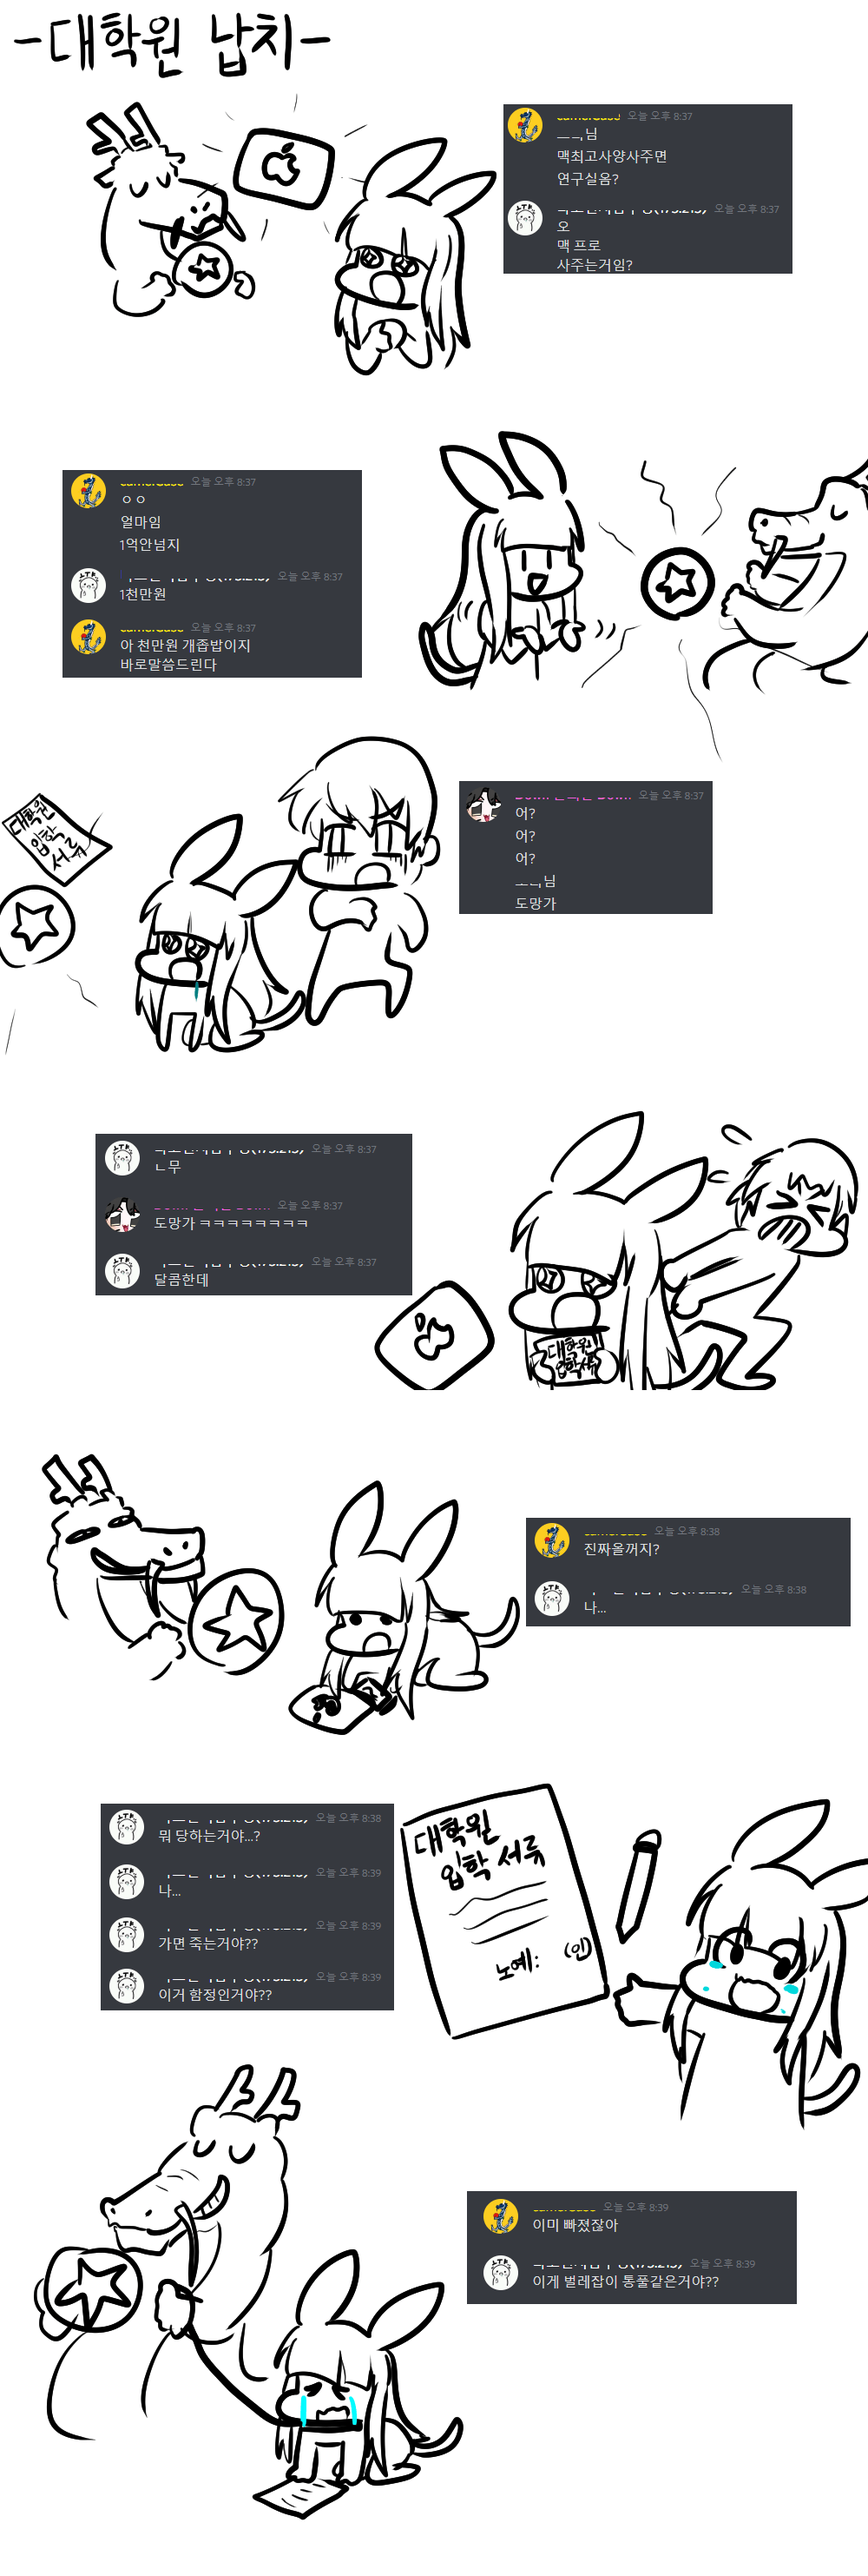
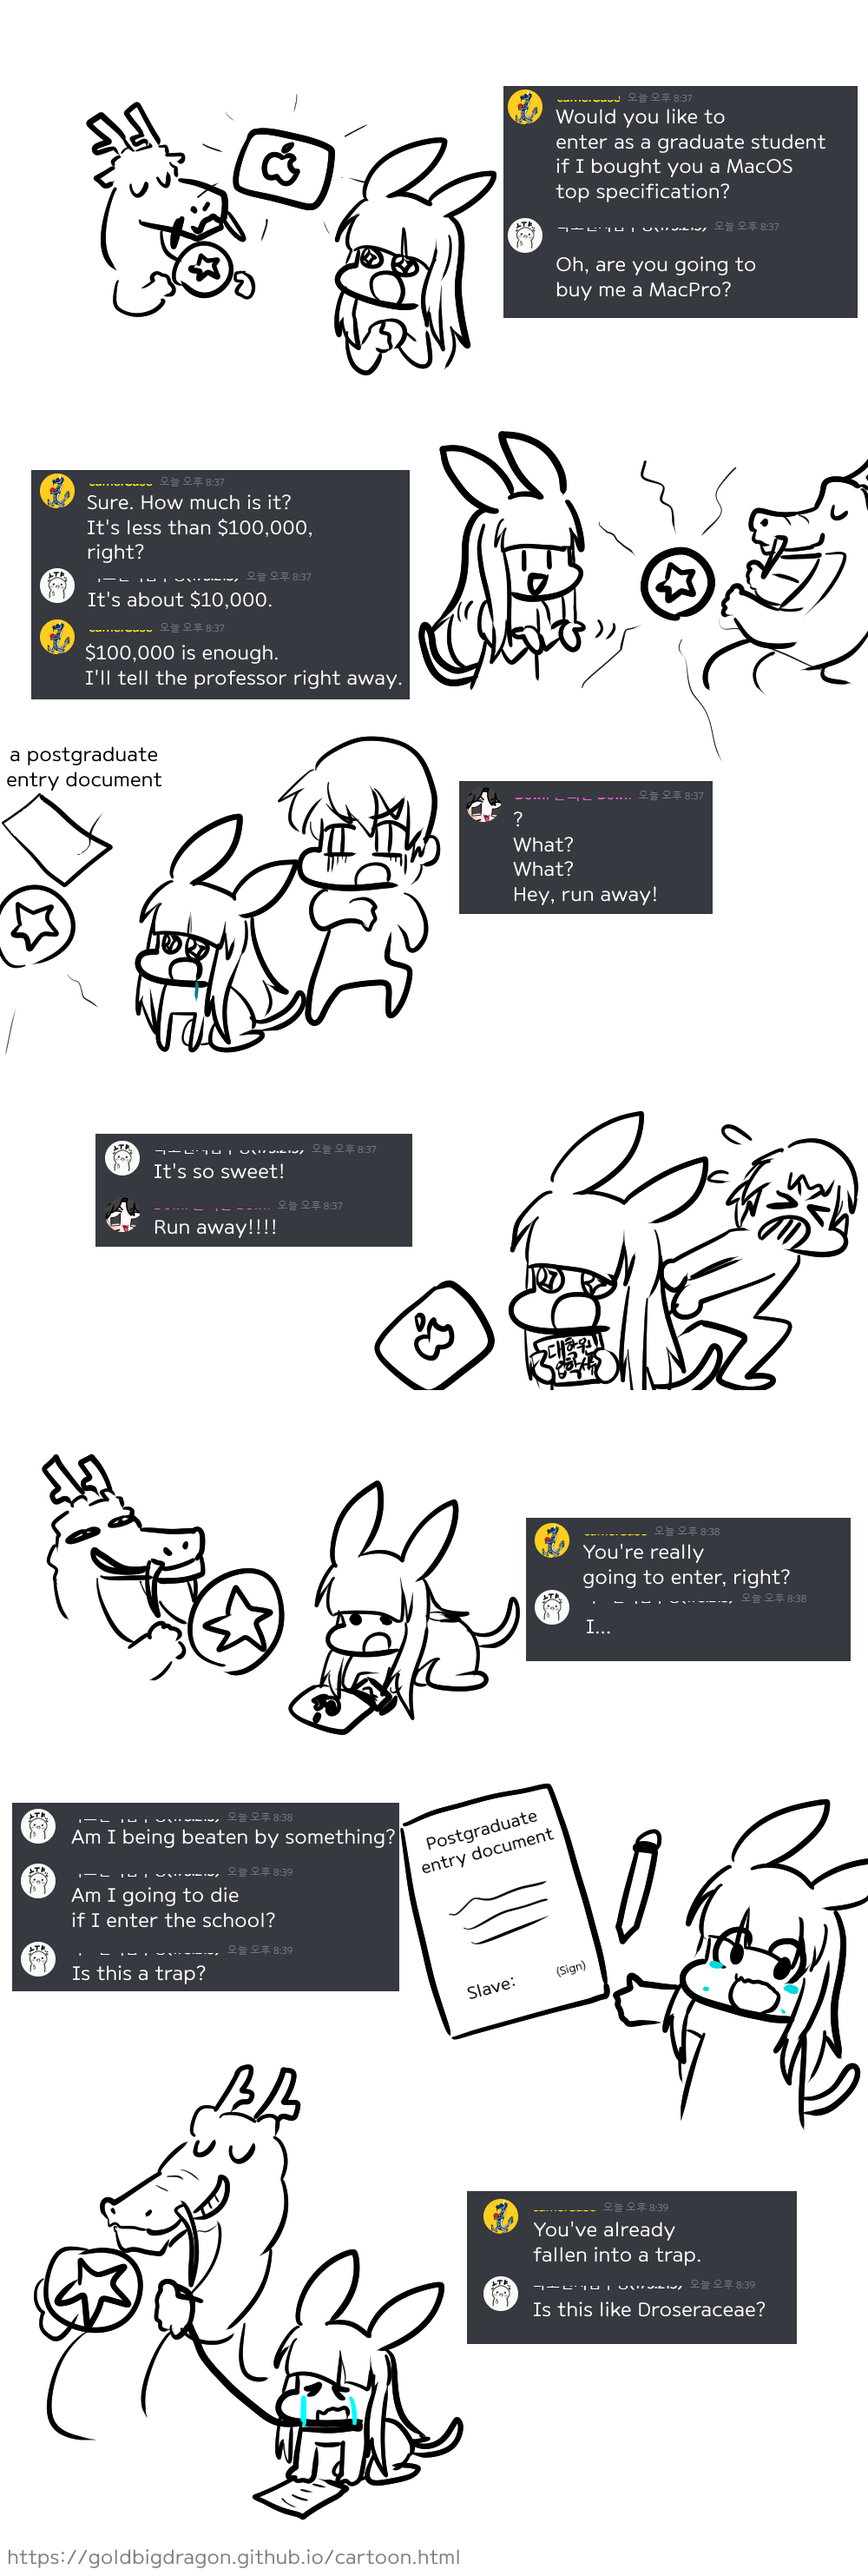
Daily touch

diff --git a/resources/data/cartoon/cartoon_list.js b/resources/data/cartoon/cartoon_list.js
@@ -8,11 +8,11 @@ const CARTOON_LIST = [
 			"ru":"Чат разработчиков"
 		},
 		"translating":{
-			"en":"Translating (12/225)",
+			"en":"Translating (16/225)",
 			"kr":"번역 완료",
-			"jp":"翻訳中 (12/225)",
-			"cn":"翻译 (12/225)",
-			"ru":"Перевод (12/225)"
+			"jp":"翻訳中 (16/225)",
+			"cn":"翻译 (16/225)",
+			"ru":"Перевод (16/225)"
 		},
 		"cover": "/resources/img/cartoon/developer/cover.png",
 		"uid":"developer",
